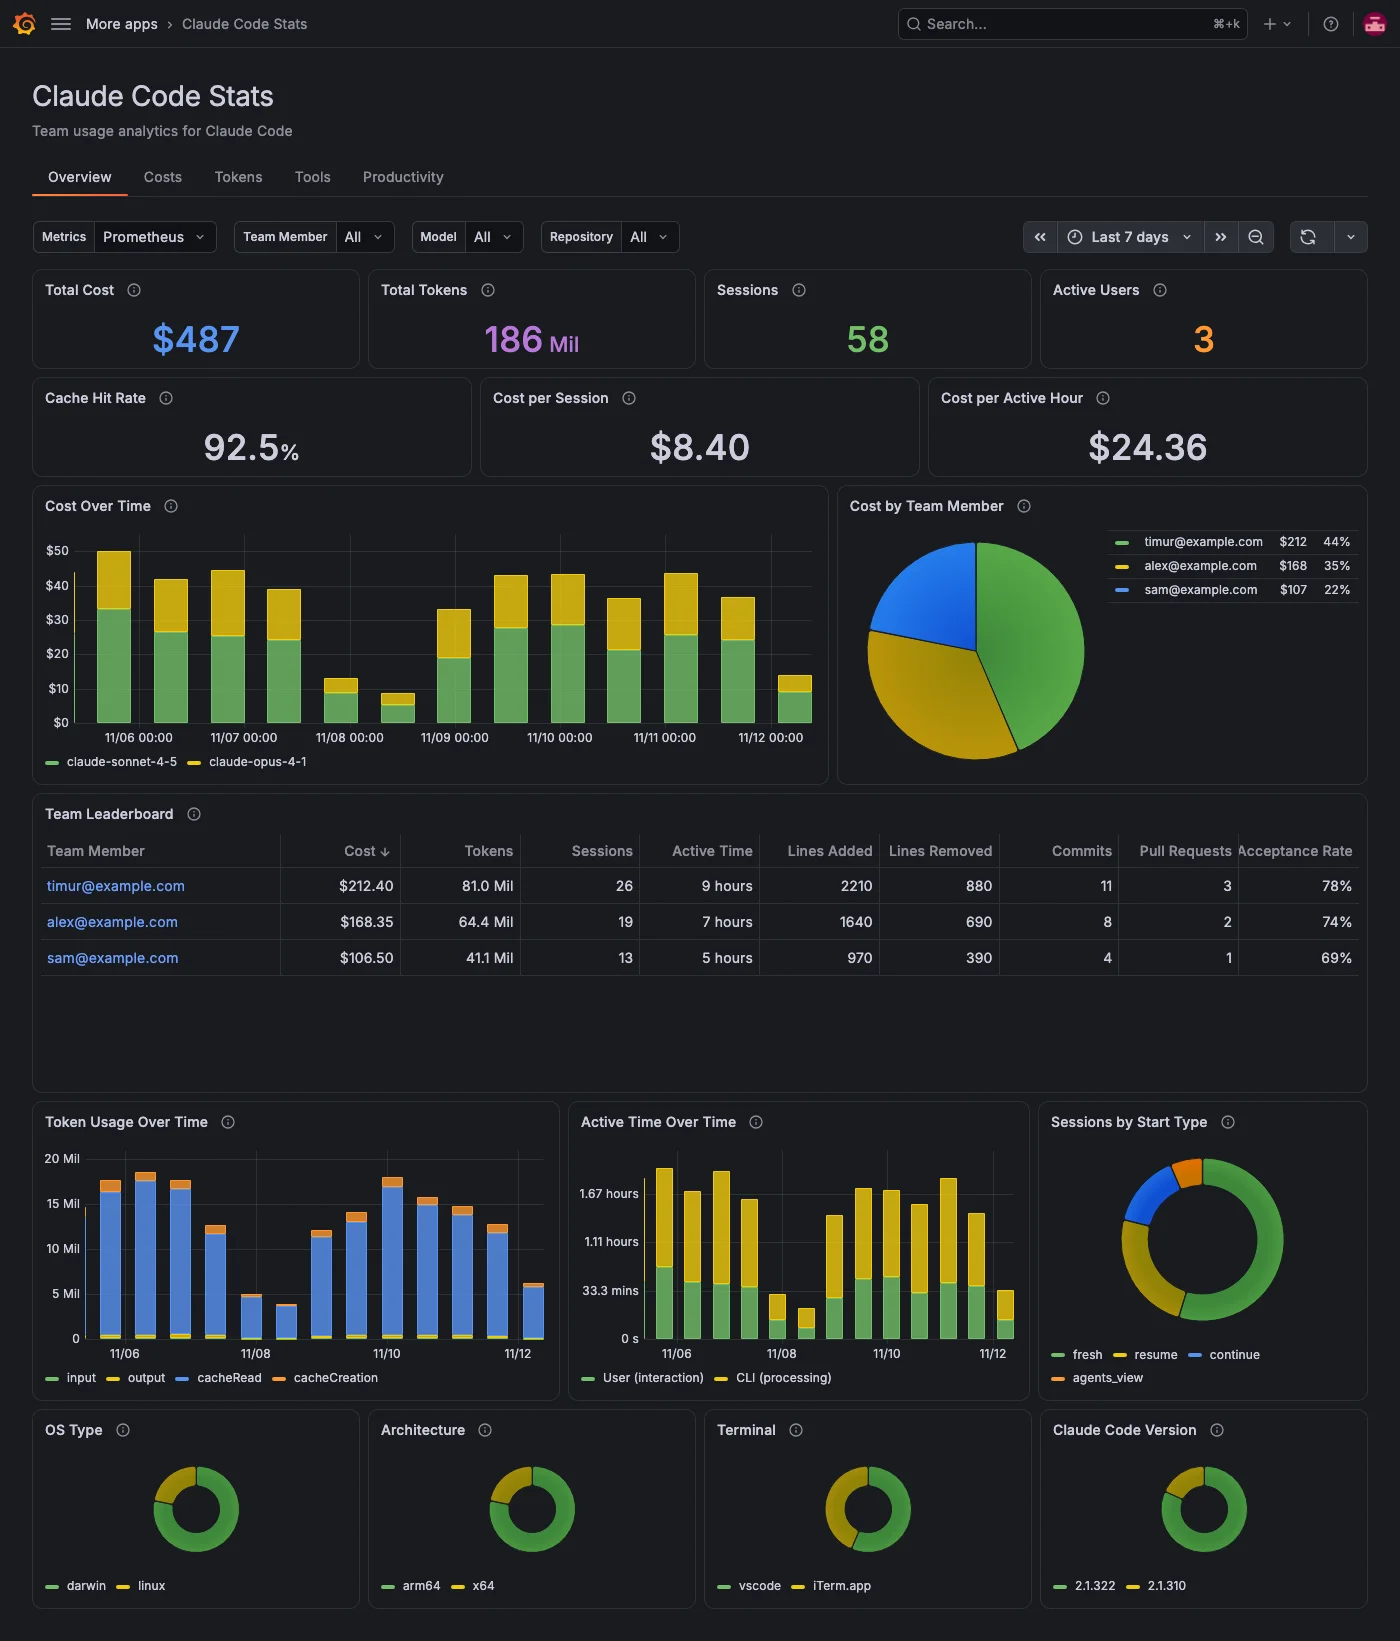
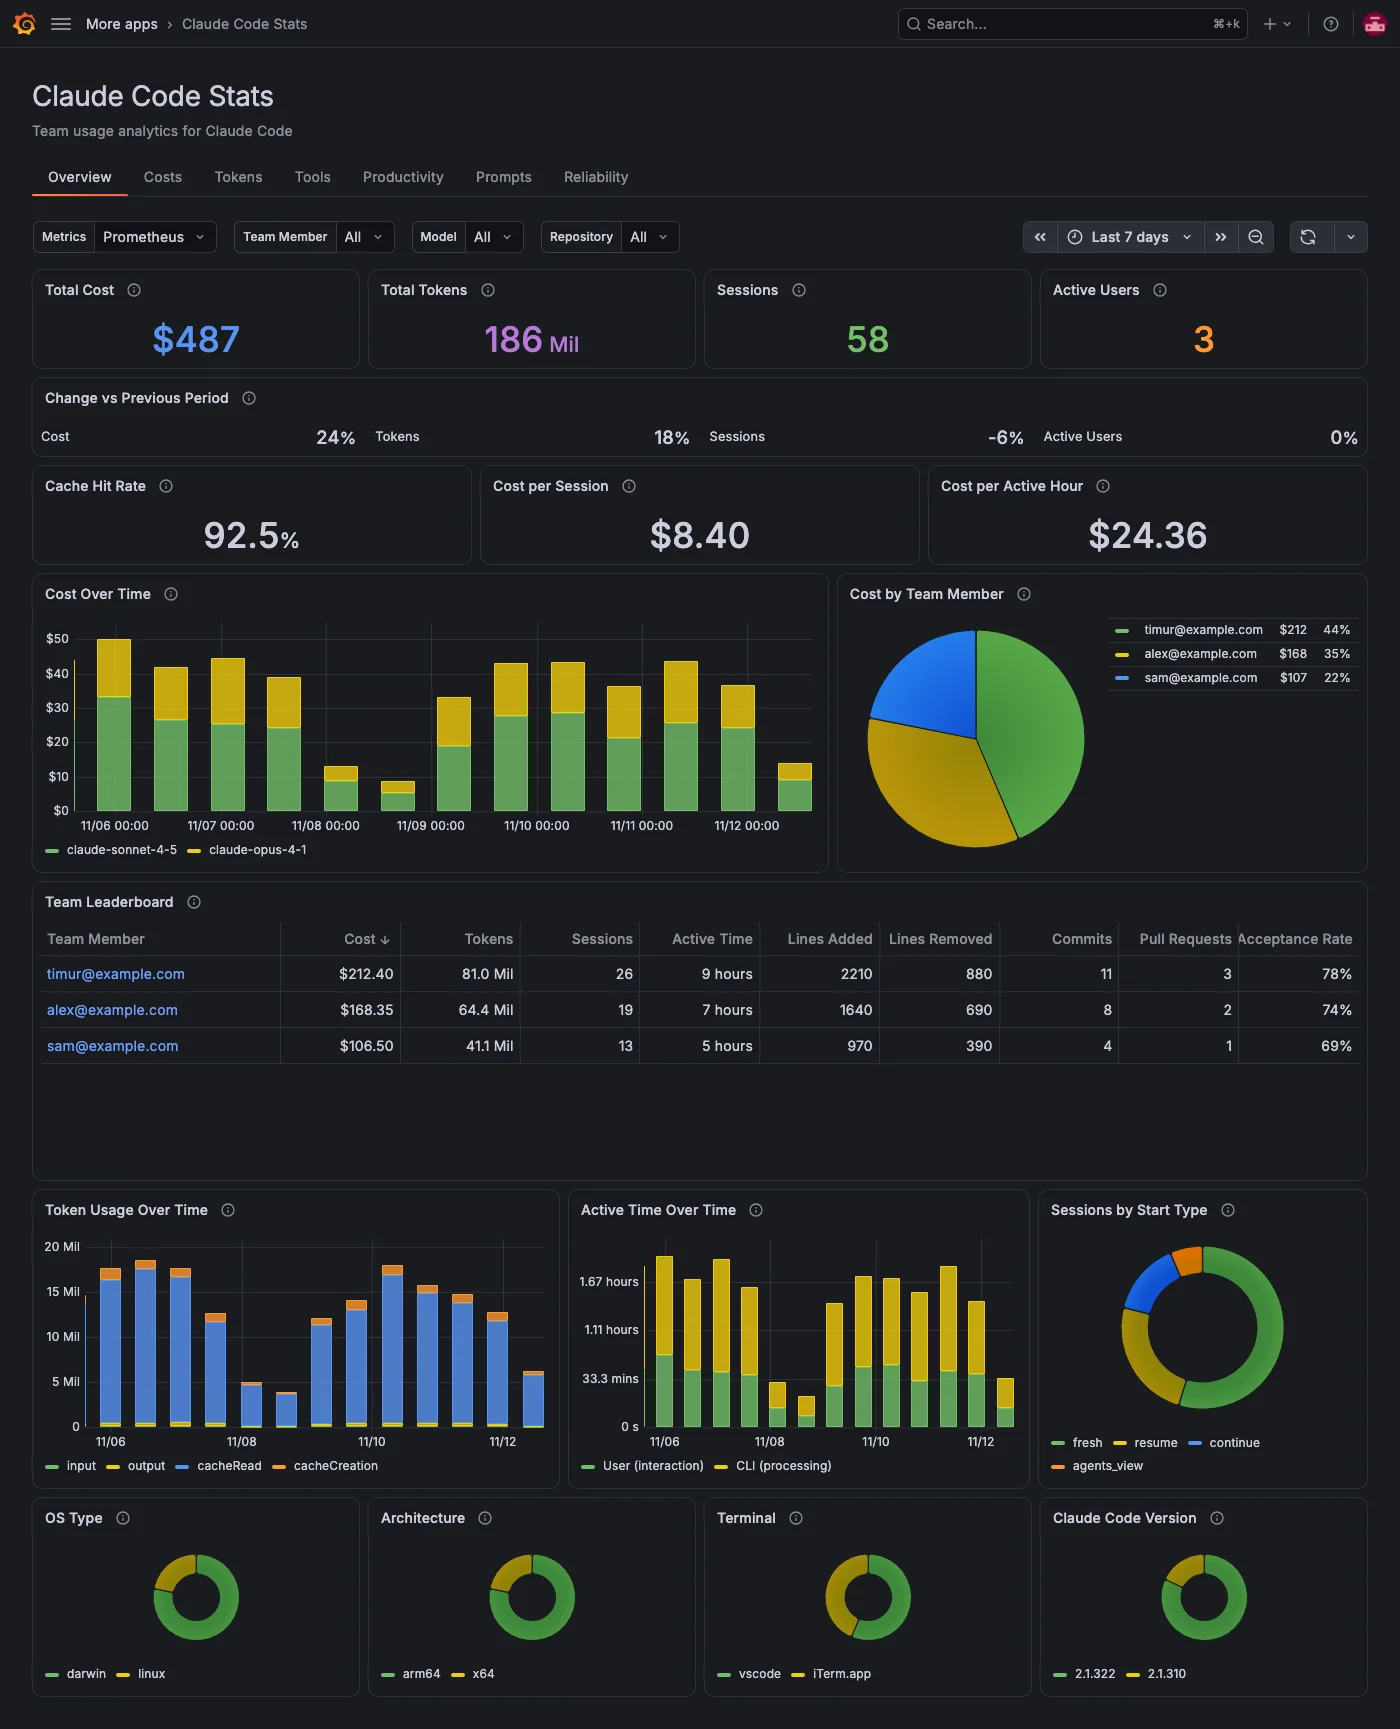
feat: change vs previous period for the Overview totals (#58)

diff --git a/src/scenes/pages/OverviewScene.ts b/src/scenes/pages/OverviewScene.ts
@@ -11,13 +11,55 @@ import {
   SceneTimePicker,
   SceneRefreshPicker,
 } from '@grafana/scenes';
-import { BigValueGraphMode, LegendDisplayMode } from '@grafana/schema';
-import { ACTIVE_TIME_TYPE_NAMES, QUERIES, Queries } from '../queries';
+import { BigValueGraphMode, BigValueTextMode, LegendDisplayMode, VizOrientation } from '@grafana/schema';
+import { ACTIVE_TIME_TYPE_NAMES, changeVsPrevious, QUERIES, Queries } from '../queries';
 import { OVER_TIME_MIN_STEP, OVER_TIME_QUERY_OPTIONS, overTimeBars } from '../panelStyle';
 import { PANEL_HEIGHTS } from '../../constants';
 import { teamLeaderboard } from './leaderboard';
 
 /** A single-value stat for an efficiency ratio. */
+// The totals compared against the previous period of the same length.
+const TRENDS = [
+  ['TotalCostChange', 'Cost', 'totalCost'],
+  ['TotalTokensChange', 'Tokens', 'totalTokens'],
+  ['TotalSessionsChange', 'Sessions', 'totalSessions'],
+  ['ActiveUsersChange', 'Active Users', 'activeUsers'],
+] as const;
+
+/**
+ * One compact panel with the change of each total against the previous period
+ * of the same length, such as the 7 days before the last 7 days.
+ */
+function trendsPanel(queries: Queries) {
+  return (
+    PanelBuilders.stat()
+      .setTitle('Change vs Previous Period')
+      .setDescription(
+        'How each total compares with the previous period of the same length, such as the 7 days before the last 7 days. Empty when the previous period had none.'
+      )
+      .setUnit('percent')
+      .setDecimals(0)
+      .setData(
+        new SceneQueryRunner({
+          datasource: { type: 'prometheus', uid: '${prometheus_ds}' },
+          queries: TRENDS.map(([refId, , key]) => ({ refId, expr: changeVsPrevious(queries[key]), instant: true })),
+        })
+      )
+      .setOption('graphMode', BigValueGraphMode.None)
+      .setOption('textMode', BigValueTextMode.ValueAndName)
+      // Vertical lays the four values out side by side.
+      .setOption('orientation', VizOrientation.Vertical)
+      .setColor({ mode: 'fixed', fixedColor: 'text' })
+      .setNoValue('No previous period to compare')
+      .setOverrides((b) => {
+        for (const [refId, name] of TRENDS) {
+          b.matchFieldsByQuery(refId).overrideDisplayName(name);
+        }
+      })
+      .build()
+  );
+}
+
 function ratioStat(refId: string, expr: string, title: string, unit: string, description: string) {
   return PanelBuilders.stat()
     .setTitle(title)
@@ -259,6 +301,12 @@ export function getOverviewScene(
                 .build(),
             }),
           ],
+        }),
+        // Row 1a: Change of the totals against the previous period
+        new SceneFlexLayout({
+          direction: 'row',
+          height: 80,
+          children: [new SceneFlexItem({ body: trendsPanel(queries) })],
         }),
         // Row 1b: Efficiency ratios
         new SceneFlexLayout({

diff --git a/tests/overview.spec.ts b/tests/overview.spec.ts
@@ -4,6 +4,7 @@ import {
   ACTIVE_TIME_TYPES,
   DISPLAY,
   LEADERBOARD,
+  TRENDS,
   MODELS,
   MEMBERS,
   TOKEN_TYPES,
@@ -22,6 +23,21 @@ test.describe('Overview scene', () => {
     await expect(panelByTitle(app, selectors, 'Total Tokens')).toContainText(DISPLAY.TotalTokens);
     await expect(panelByTitle(app, selectors, 'Sessions')).toContainText(DISPLAY.TotalSessions);
     await expect(panelByTitle(app, selectors, 'Active Users')).toContainText(DISPLAY.ActiveUsers);
+  });
+
+  test('shows how each total changed against the previous period', async ({ mockData, gotoPage, selectors }) => {
+    const app = await gotoPage();
+    const panel = panelByTitle(app, selectors, 'Change vs Previous Period');
+
+    for (const [refId, name] of [
+      ['TotalCostChange', 'Cost'],
+      ['TotalTokensChange', 'Tokens'],
+      ['TotalSessionsChange', 'Sessions'],
+      ['ActiveUsersChange', 'Active Users'],
+    ] as const) {
+      await expect(panel).toContainText(name);
+      await expect(panel).toContainText(`${TRENDS[refId]}%`);
+    }
   });
 
   test('renders the efficiency ratios', async ({ mockData, gotoPage, selectors }) => {

diff --git a/src/scenes/queries.ts b/src/scenes/queries.ts
@@ -43,6 +43,17 @@ function resolveMember(expr: string): string {
 }
 
 /**
+ * Percent change of a period total against the previous period of the same
+ * length: the same query with every `[$__range]` window shifted back by
+ * `offset $__range`. Empty when the previous period total was 0 or missing:
+ * there is nothing to compare with, and dividing by 0 would show infinity.
+ */
+export function changeVsPrevious(expr: string): string {
+  const previous = expr.split('[$__range])').join('[$__range] offset $__range)');
+  return `(${expr} - ${previous}) / (${previous} > 0) * 100`;
+}
+
+/**
  * Query for the Team Member variable: every identifiable member with spend in
  * the range. The variable extracts the `member` label from the result, so usage
  * with no identity (nothing to filter on) is not offered as an option.

diff --git a/tests/mocks/prometheus.ts b/tests/mocks/prometheus.ts
@@ -212,6 +212,14 @@ export const SCALARS = {
   CostPerActiveHour: sum(COST.byMember) / (sum(ACTIVE_TIME_BY_MEMBER) / 3600),
 } as const;
 
+// Change against the previous period for the Overview totals (percent).
+export const TRENDS = {
+  TotalCostChange: 24,
+  TotalTokensChange: 18,
+  TotalSessionsChange: -6,
+  ActiveUsersChange: 0,
+} as const;
+
 // How the stat panels render SCALARS, for spec assertions.
 export const DISPLAY = {
   TotalCost: '487',
@@ -532,6 +540,11 @@ for (const [column, byMember] of Object.entries(LEADERBOARD)) {
       ])
     );
 }
+
+Object.assign(
+  DATASET,
+  Object.fromEntries(Object.entries(TRENDS).map(([refId, value]) => [refId, (id: string) => scalarFrame(id, value)]))
+);
 
 // ==================== Route handlers ====================
 

diff --git a/catalog-docs/features/overview.md b/catalog-docs/features/overview.md
@@ -24,6 +24,8 @@ The top row shows four totals:
 
 Cost is the estimate Claude Code reports. For billing data, use your Anthropic or cloud provider console.
 
+**Change vs Previous Period**, under the totals, compares cost, tokens, sessions and active users with the previous period of the same length, such as the 7 days before the last 7 days. A value is empty when the previous period had none to compare with.
+
 ## Check efficiency
 
 The second row shows three ratios for the period:
